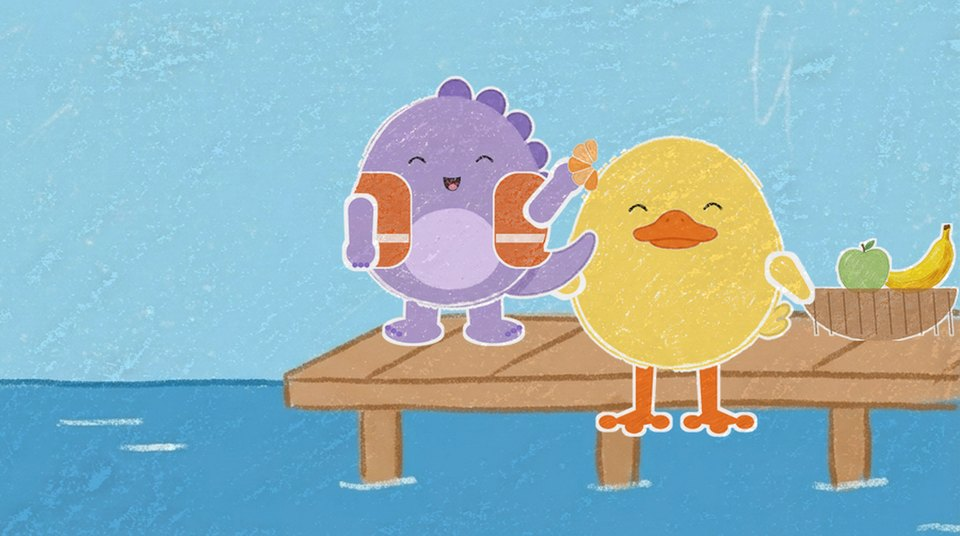
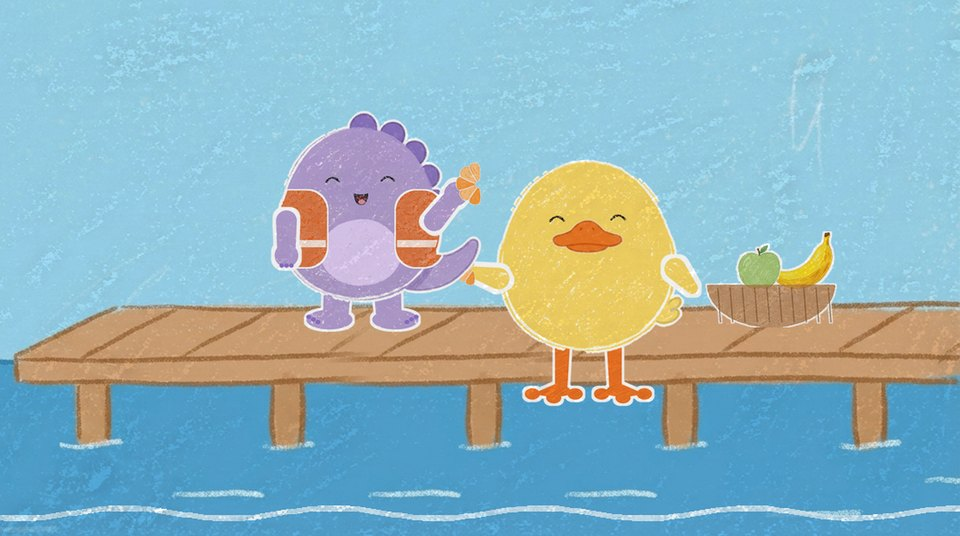
Avsnitt 006: längre brygga i 14e2–14g (en däcksbit med ben upprepad två gånger, skarvarna övertonade) så att den fyller bilden, Disa, Agda och korgen i mitten

diff --git a/avsnitt/006-orange-baten/storyboard/bygg.py b/avsnitt/006-orange-baten/storyboard/bygg.py
@@ -314,10 +314,25 @@ def sjön_plåt():
     return _plåt["sjön"]
 
 
-def bryggan_plåt():
+def bryggan_plåt(lång=False):
     if "bryggan" not in _plåt:
         _plåt["bryggan"] = bild("bryggan", ph_bryggan).convert("RGB").resize((W, H))
-    return _plåt["bryggan"]
+    if lång and "lång" not in _plåt:
+        # bryggan förlängd åt vänster (Sanna, 2026-11-05: mer plats för djuren när båten är borta): biten med ett ben
+        # mitt på däcket upprepas två gånger, himlen och vattnet till vänster flyttas med. x i bryggans 1376-bild.
+        p = _plåt["bryggan"]; k = W / 1376
+        x0, a, b = round(742 * k), round(900 * k), round(1125 * k)
+        n = 2 * (b - a)
+        c = p.copy()
+        c.paste(p.crop((n, 0, x0, H)), (0, 0))   # himlen och vattnet vänster om bryggan, flyttade åt vänster
+        ramp = Image.linear_gradient("L").rotate(90).resize((60, H))   # 60 px övertoning vid varje skarv
+        for x, bit in ((x0 - n, p.crop((x0, 0, a + 30, H))), (a - n, p.crop((a - 30, 0, b + 30, H))), (a - n + b - a, p.crop((a - 30, 0, b + 30, H))), (a, p.crop((a - 30, 0, W, H)))):
+            m = Image.new("L", bit.size, 255)
+            if x != x0 - n:
+                m.paste(ramp, (0, 0))
+            c.paste(bit, (x - (0 if x == x0 - n else 30), 0), m)
+        _plåt["lång"] = c
+    return _plåt["lång" if lång else "bryggan"]
 
 
 # --- Figurer: kropp, armar ur riggen och ansiktet ur verktyg/ansikten.py --------------------------------------
@@ -968,8 +983,8 @@ def korgen(c, apelsin=True, x=KORG_X):
         place(c, APELSIN, x - 50, KORG_G - KORG_H * 0.45, 48)
 
 
-def brygga(mood="glad", agda_med=True, apelsin_i_korgen=True, agda_x=AGDA_X, agda_fot=AGDA_FOT, korg_x=KORG_X, **kw):
-    c = bryggan_plåt().copy()
+def brygga(mood="glad", agda_med=True, apelsin_i_korgen=True, agda_x=AGDA_X, agda_fot=AGDA_FOT, korg_x=KORG_X, lång=False, **kw):
+    c = bryggan_plåt(lång).copy()
     korgen(c, apelsin_i_korgen, korg_x)
     if agda_med:
         sätt(c, agda(mood, **kw), agda_x, agda_fot, AGDA_K)
@@ -1119,9 +1134,9 @@ arrow(c, [(1290, GK - 20), (1220, GK - 40)])
 frames["14d"] = tvåbild(c)
 # 14e–g: Disa kliver ur båten upp på bryggan och står bredvid Agda (Sanna, 2026-11-05). I 14e syns kliven, sedan är
 # båten borta ur bild (Sanna: renare). Så går hon på egna ben in i discot.
-DISA_BRYGGA_X, DISA_BRYGGA_K, AGDA_BRYGGA_X, KORG_BRYGGA_X = 900, 0.33, 1110, 1300
+DISA_BRYGGA_X, DISA_BRYGGA_K, AGDA_BRYGGA_X, KORG_BRYGGA_X = 690, 0.33, 950, 1160
 # eget utsnitt: bryggan och Disa och Agda i mitten (Sanna, 2026-11-05)
-BRYGGA_CX, BRYGGA_CY, BRYGGA_W = 1040, 420, 900
+BRYGGA_CX, BRYGGA_CY, BRYGGA_W = 900, 420, 1100
 
 
 def bryggbild(c):
@@ -1129,16 +1144,16 @@ def bryggbild(c):
 
 
 def på_bryggan(agda_mood, disa_mood, agda_kw, disa_kw):
-    c = brygga(agda_mood, apelsin_i_korgen=False, agda_x=AGDA_BRYGGA_X, korg_x=KORG_BRYGGA_X, **agda_kw)
+    c = brygga(agda_mood, apelsin_i_korgen=False, agda_x=AGDA_BRYGGA_X, korg_x=KORG_BRYGGA_X, lång=True, **agda_kw)
     framvågor(c, GK - 34, 0, W)
     sätt(c, disa(disa_mood, **disa_kw), DISA_BRYGGA_X, AGDA_STÅR, DISA_BRYGGA_K)
     return c
 
 
 # 14e En halva var: Disa kliver ur den tomma båten upp på bryggan (ett hopp i en båge), Agda sitter på kanten med apelsinen
-c = brygga("skrattar", apelsin_i_korgen=False, agda_x=AGDA_BRYGGA_X, korg_x=KORG_BRYGGA_X, peka_l=(-1600, 300), håll={"l": (APELSIN, 110)})
+c = brygga("skrattar", apelsin_i_korgen=False, agda_x=1110, korg_x=1300, peka_l=(-1600, 300), håll={"l": (APELSIN, 110)})
 vid_bryggan(c, 330, med_disa=False)
-sätt(c, disa("skrattar", peka_r=(1500, -700), peka_l=(-480, -700), blick=(8, 0)), DISA_BRYGGA_X + 20, AGDA_STÅR - 25, DISA_BRYGGA_K)
+sätt(c, disa("skrattar", peka_r=(1500, -700), peka_l=(-480, -700), blick=(8, 0)), 920, AGDA_STÅR - 25, DISA_BRYGGA_K)
 arrow(c, båge(700, AGDA_STÅR + 10, 170, 160, 35, steg=20))
 frames["14e"] = crop_zoom(c, 840, BRYGGA_CY, 1120)
 # 14e2 … till dig och mig!: på bryggan, båten ur bild; Agda har delat apelsinen och ger Disa ena halvan
